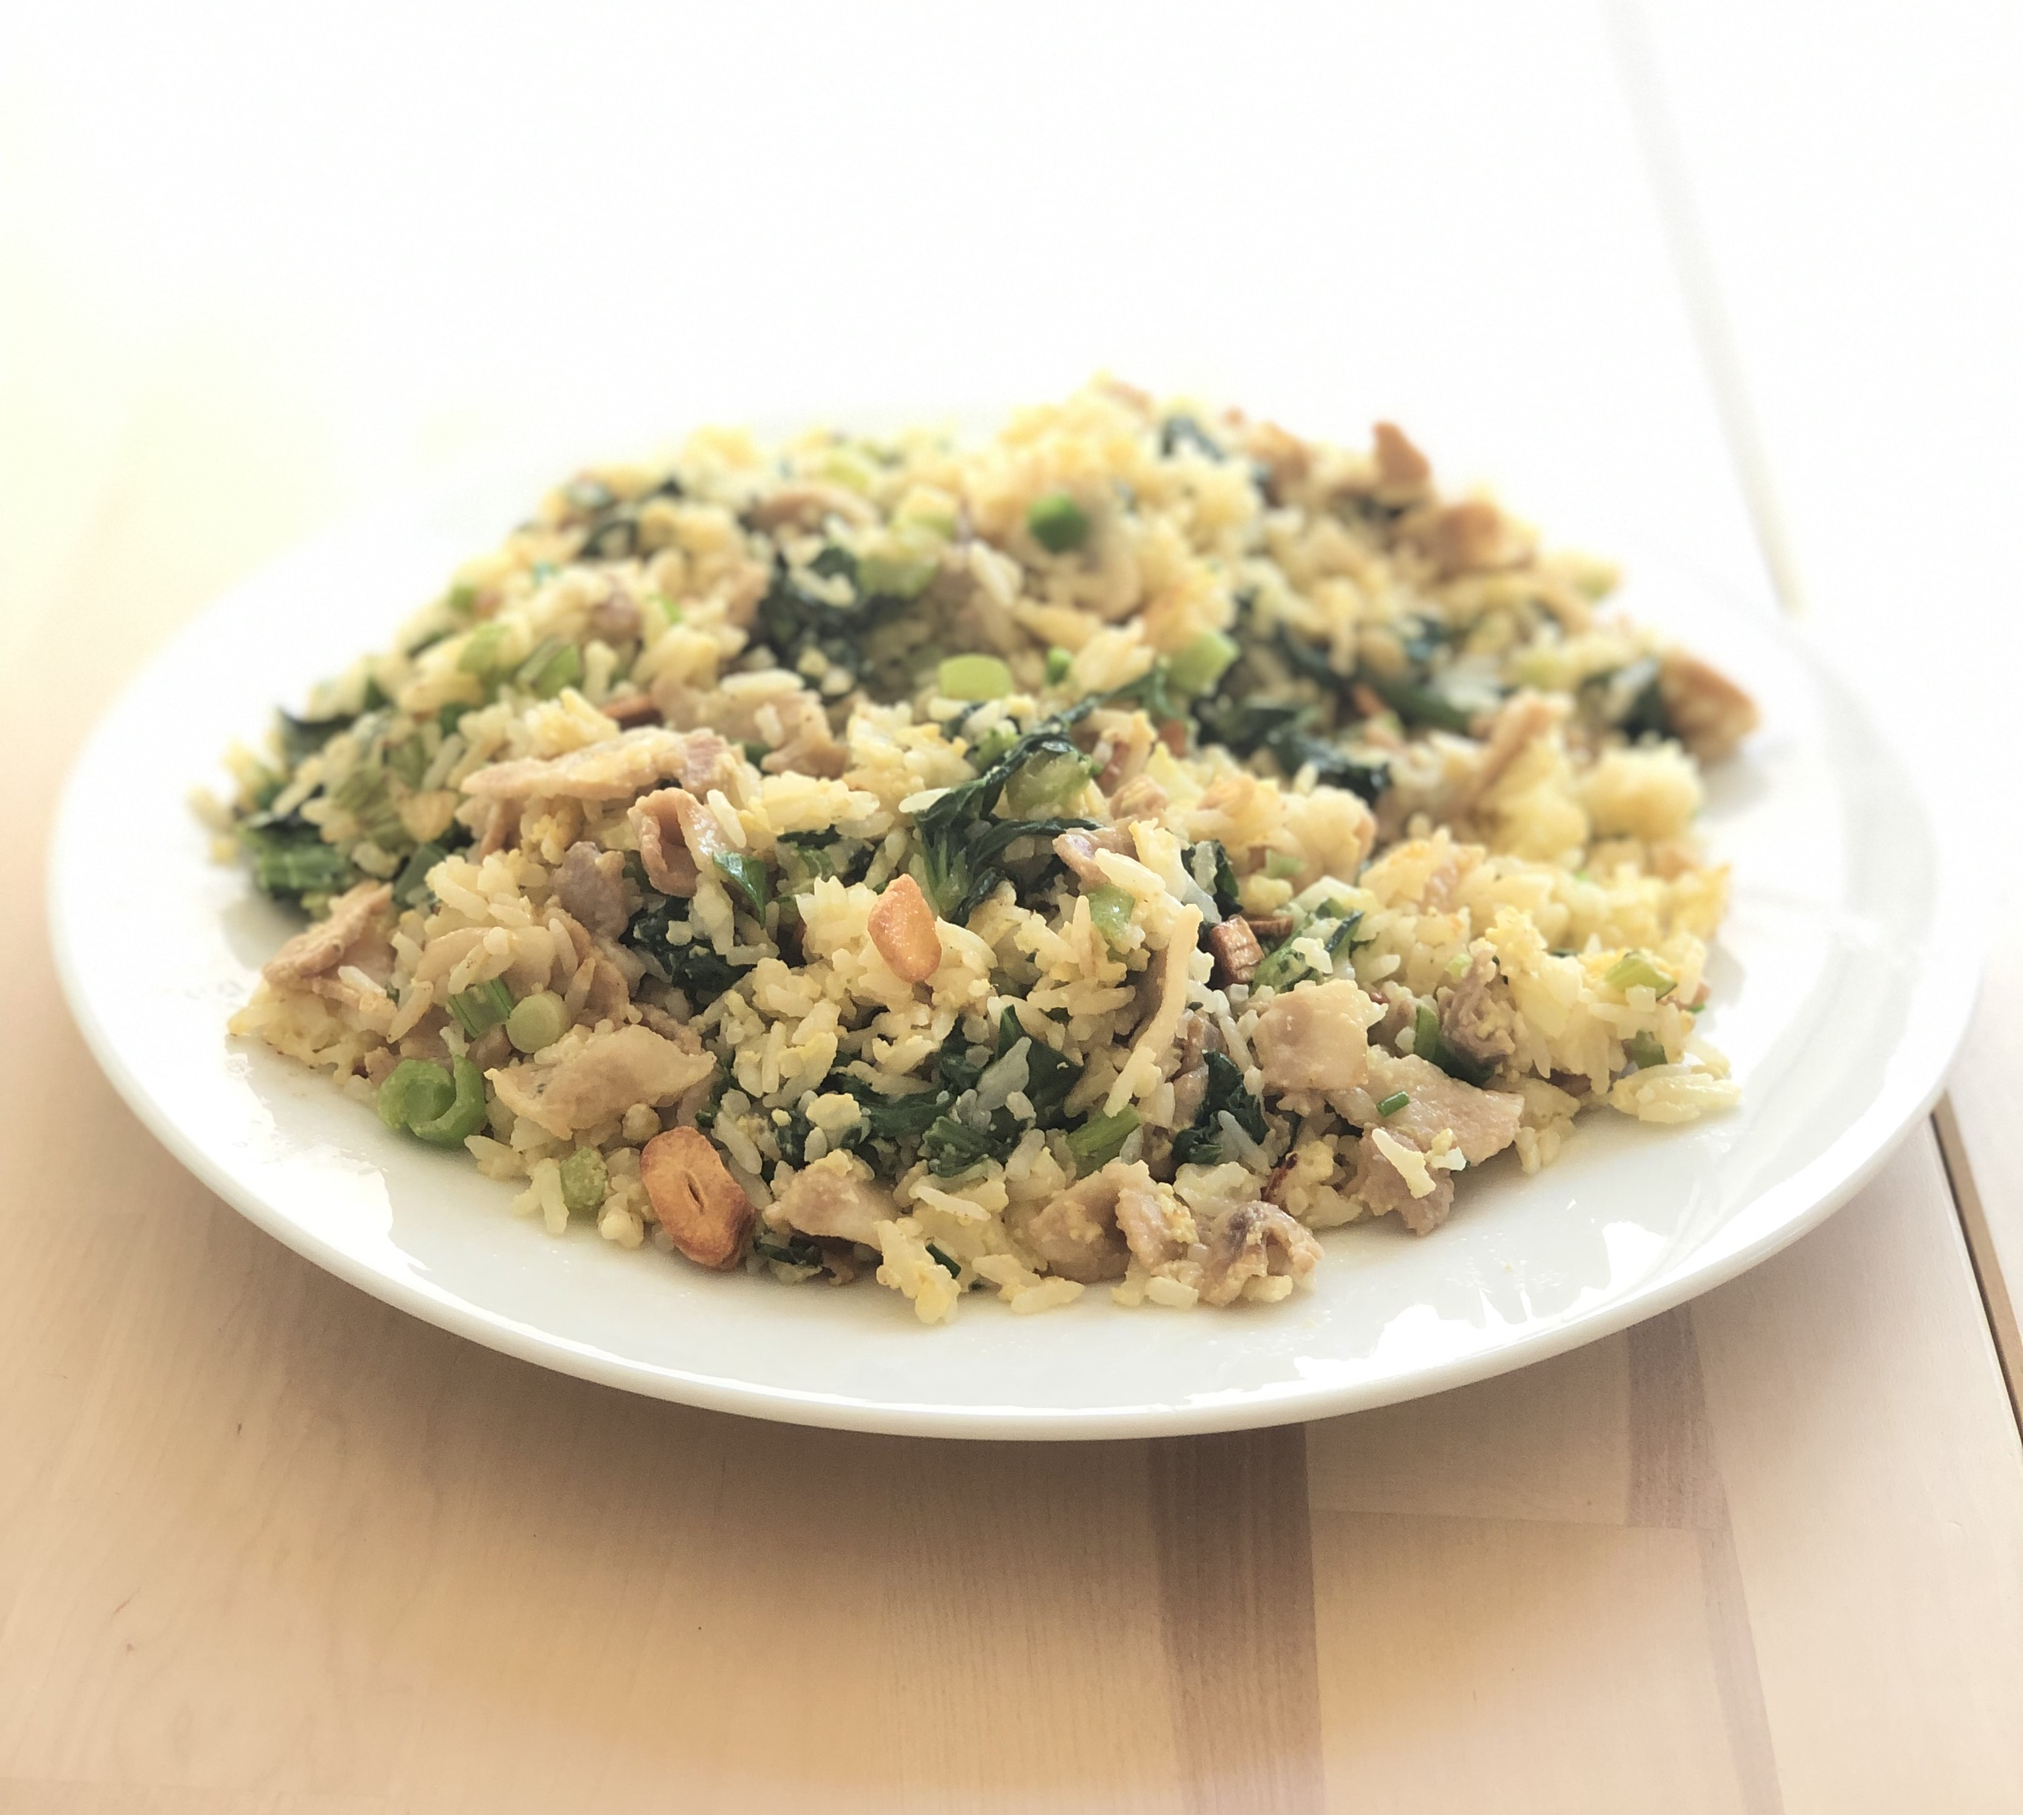
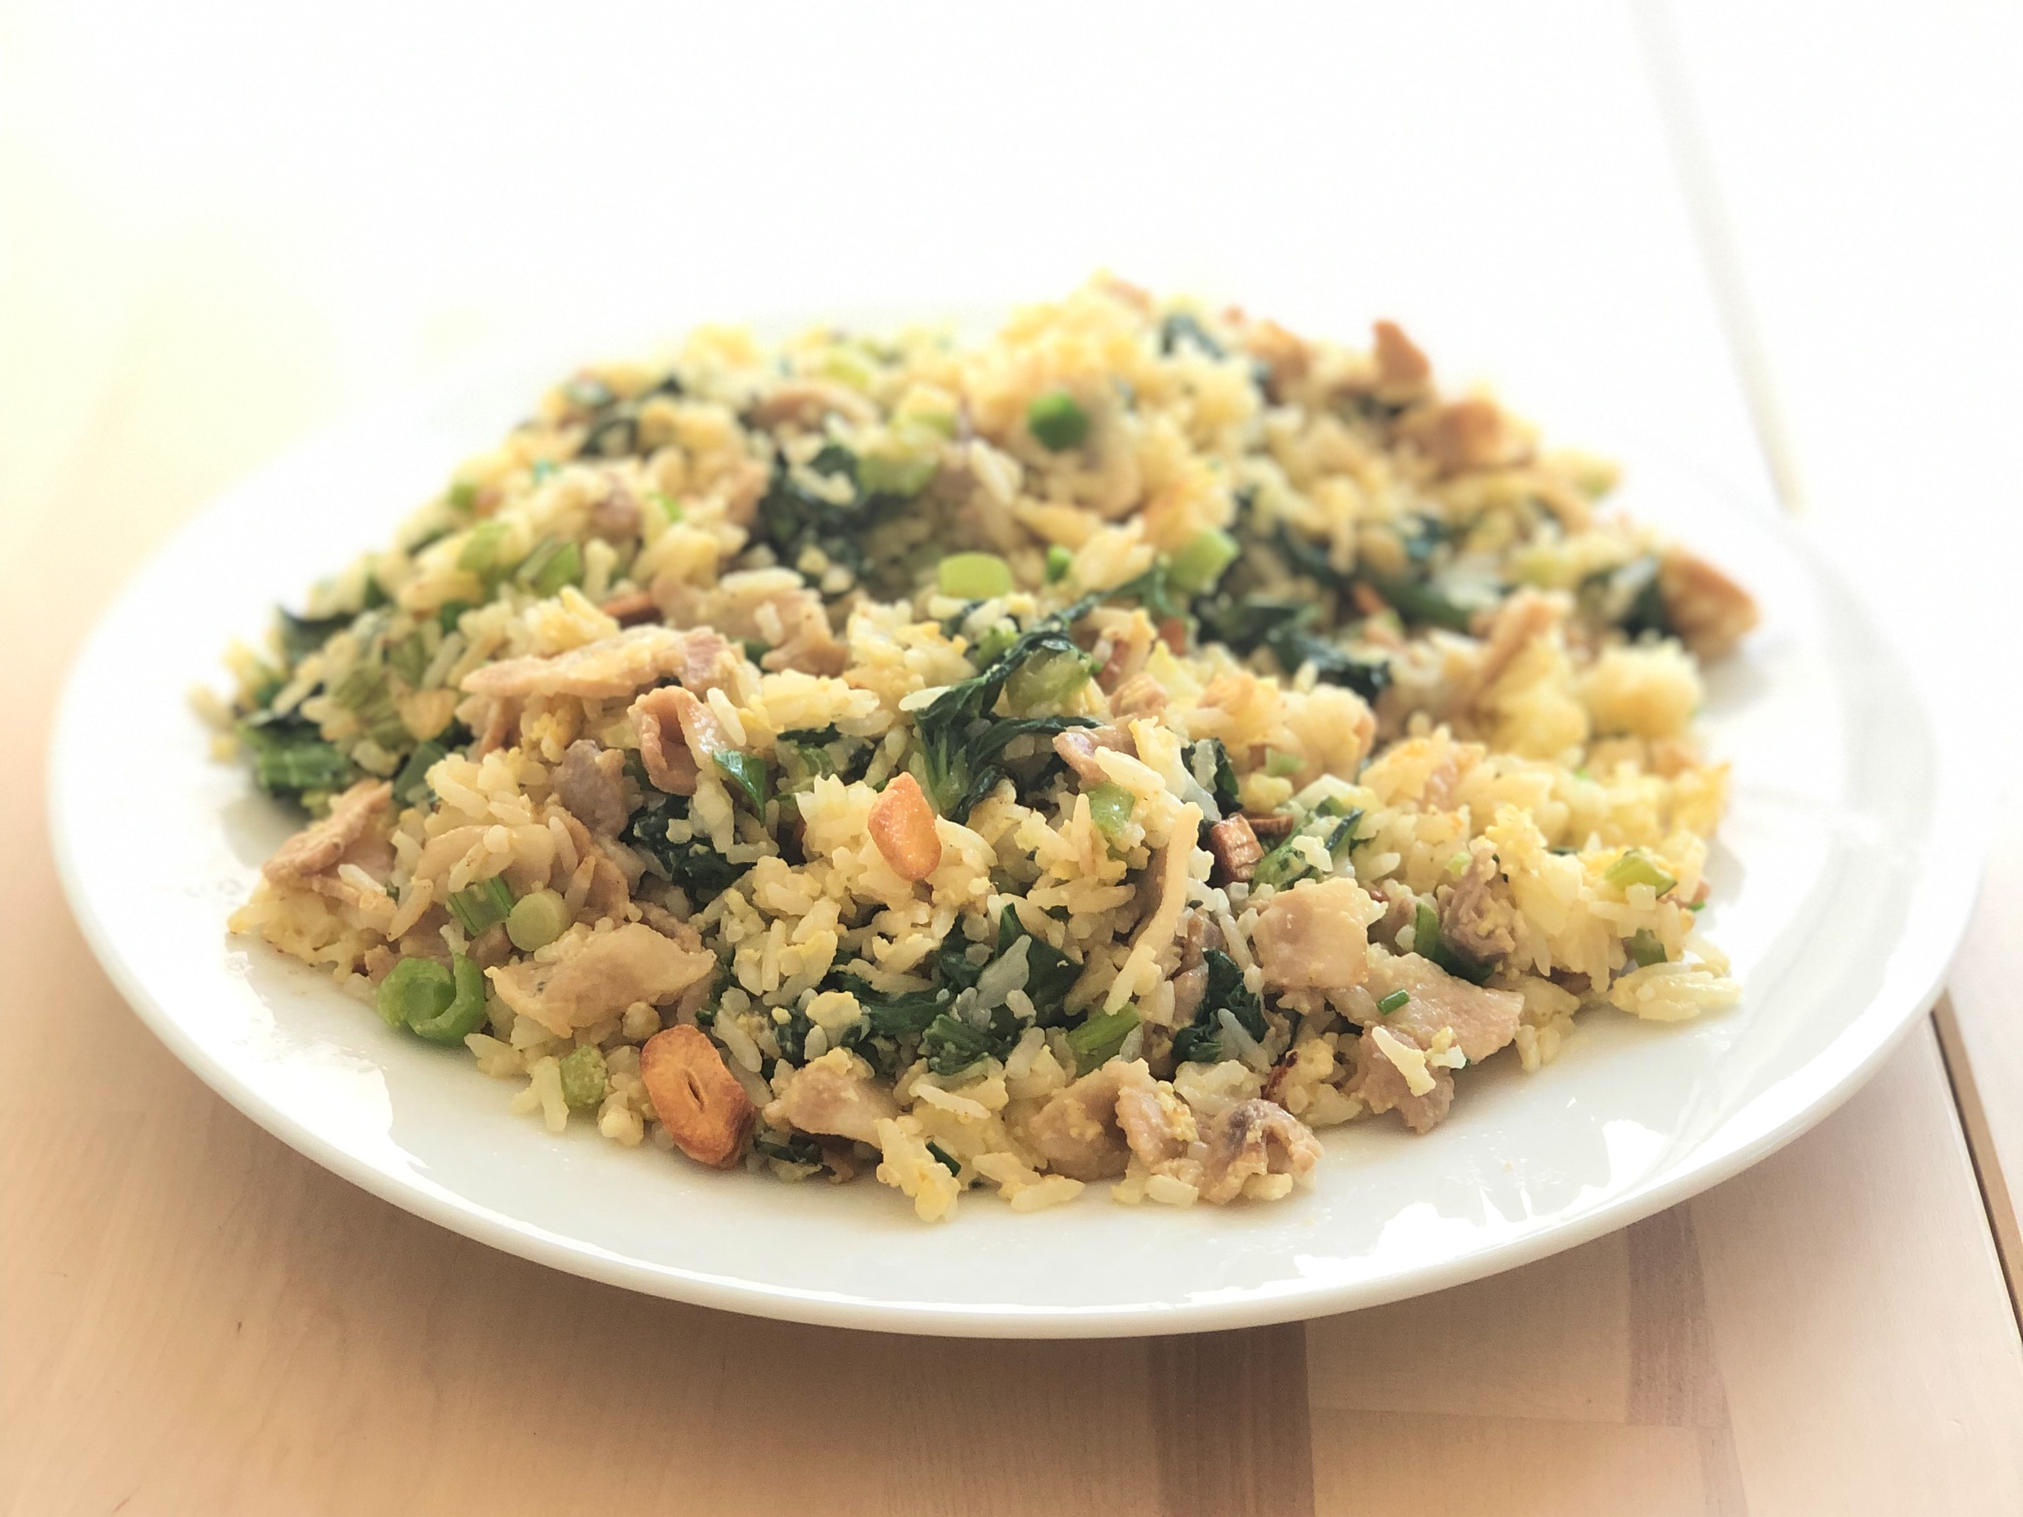
update images

diff --git a/README.md b/README.md
@@ -7,7 +7,7 @@
 
 <img 
   style="vertical-align: middle; margin: 10px" 
-  src="https://raw.githubusercontent.com/GalenWong/GalenWong/master/images/panda-ball.gif" 
+  src="https://user-images.githubusercontent.com/33505320/91068921-8f64f680-e667-11ea-8f52-7a4e9be96ffc.gif" 
   height="200px"
   align='right'
 /> 
@@ -80,6 +80,7 @@ studies in
 - [Frandé 法蘭黛樂團《該死的冷戰》Feat. 李英宏 aka DJ Didilong  Official Music Video](https://www.youtube.com/watch?v=NxngOIdRdqE)
 <!-- YOUTUBE-MYMIX-LIST:END -->
 
+⌛Updates every hour. [How?](https://galenwong.github.io/blog/2020-08-16-youtube-mymix/)
 </td>
 </tr>
 <tr valign="top">
@@ -99,7 +100,8 @@ Follow me on
 
 <img 
   alt="Polar bear" 
-  src="https://raw.githubusercontent.com/GalenWong/GalenWong/master/images/polar-bear.jpg" 
+  src="https://user-images.githubusercontent.com/33505320/91069823-714bc600-e668-11ea-9746-d81902b43fca.jpg" 
+  width="100%"
 />
 
 </td>
@@ -112,8 +114,8 @@ Read how [Galen cooks food the Wong way](https://galenwong.github.io/blog/2020-0
 
 <img 
   alt="Choy sum fried rice" 
-  src="https://raw.githubusercontent.com/GalenWong/GalenWong/master/images/garlic-choysum-fried-rice.jpg" 
-  width=400
+  src="https://user-images.githubusercontent.com/33505320/91070000-b53ecb00-e668-11ea-8ee9-8cc325a4755a.jpg" 
+  width="100%"
 />
 
 </td>
